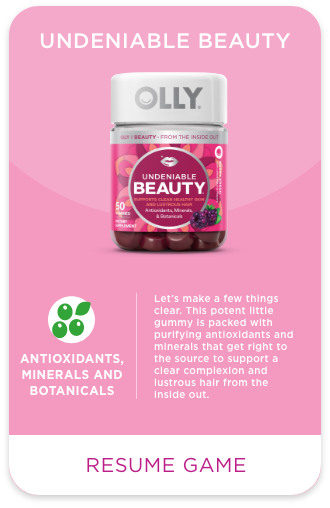
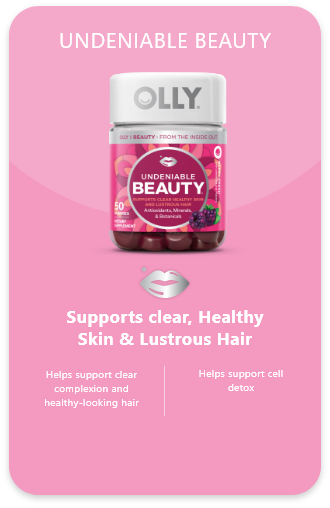
Css for popup

diff --git a/TemplateData/style.css b/TemplateData/style.css
@@ -99,6 +99,7 @@ button:focus {
     position: absolute;
     top: 0;
     left: 0;
+    background: #E8EDFF;
 }
 
 .page-inner {
@@ -139,7 +140,7 @@ figure, body, p, h1, h2, h3, h4, h5, h6, * {
 }
 
 .header-container {
-    padding: 18px 5px 5px;
+    padding: 15px 5px 15px;
 }
 
 .header-col {
@@ -192,13 +193,13 @@ figure, body, p, h1, h2, h3, h4, h5, h6, * {
 
 .list-image {
     flex-wrap: wrap;
-    padding-left: 5px;
-    padding-right: 5px;
+    padding-left: 20px;
+    padding-right: 20px;
 }
 
 .item-image {
-    width: calc(33.33% - 10px);
-    margin: 4px 5px;
+    width: 33.33%;
+    margin: 0;
 }
 
 .item-image img {
@@ -473,14 +474,45 @@ figure, body, p, h1, h2, h3, h4, h5, h6, * {
   }
 }
 
-.btn-resume {
+.pause-block {
     width: 100%;
     height: 100%;
+    display: flex;
+    align-items: center;
+    justify-content: center;
     position: absolute;
     top: 10px;
     left: 0;
-    background: #9196a8;
+    background: #e8edff;
     border: 0;
+}
+
+.pause-inner {
+    display: inline-block;
+    height: 100%;
+    position: relative;
+    text-align: center;
+
+}
+
+.pause-block img {
+    width: auto;
+    height: 100%;
+}
+
+.btn-resume {
+    position: absolute;
+    bottom: 11px;
+    left: 8px;
+    /* right: 0; */
+    height: 60px;
+    width: calc(100% - 16px);
+    border-bottom-left-radius: 20px;
+    border-bottom-right-radius: 20px;
+    border: 0;
+    background: #fff;
+    font-size: 15px;
+    font-weight: 600;
 }
 
 .text-line-one {
@@ -612,6 +644,13 @@ a {
 .how-content img {
     position: relative;
     z-index: 4;
+}
+
+.page-header {
+    background-image: url('header.png');
+    background-size: auto;
+    background-position: center;
+    background-repeat: no-repeat;
 }
 
 .header-detail {

diff --git a/game.html b/game.html
@@ -219,9 +219,13 @@
                             </div>
                         </div>
                     </div>
-                    <button class="btn-resume" id="pause-mode" style="display: none;">
-                        <img id="pause-mode-img" src="TemplateData/img/Blue.png" />
-                    </button>
+                    <div class="pause-block">
+                        <div class="pause-inner">
+                            <img src="TemplateData/img/blue.png" />
+                            <button class="btn-resume primary-color">RESUME GAME</button>
+                        </div>
+                    </div>
+
                 </div>
             </div>
         </div>
